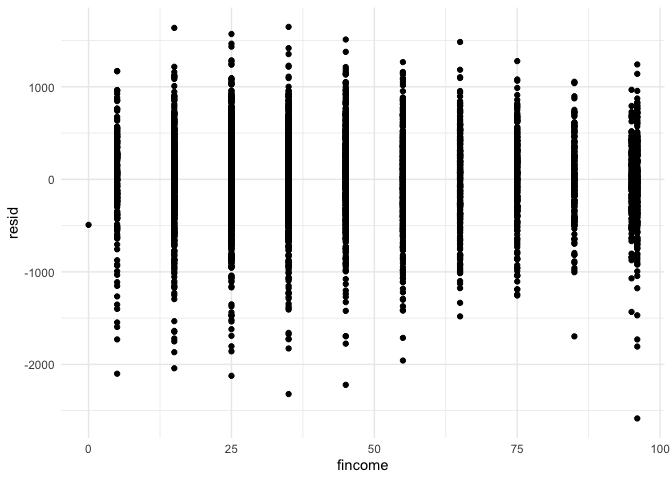
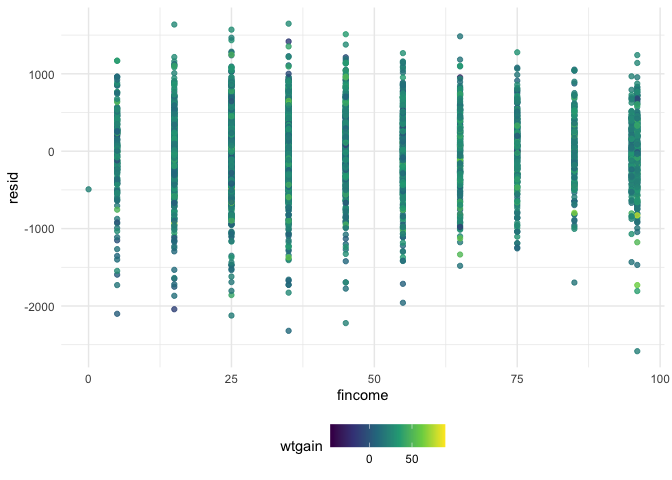
added cross validation to problem 2

diff --git a/p8105_hw6_kdh2140.md b/p8105_hw6_kdh2140.md
@@ -8,6 +8,7 @@ Kristina Howell
 library(tidyverse)
 library(modelr)
 library(p8105.datasets)
+library(mgcv)
 
 theme_set(theme_minimal() + theme(legend.position = "bottom"))
 
@@ -58,6 +59,8 @@ homicide_df =
   select(city_state, resolved, victim_age, victim_race, victim_sex)
 ```
 
+#### Fitting the model for Baltimore
+
 ``` r
 # Create a dataframe with only Baltimore, MD
 baltimore_df = 
@@ -88,6 +91,8 @@ glm(resolved ~ victim_age + victim_race + victim_sex,
 | victim\_raceWhite | 2.320 |     1.648 |     3.268 |
 | victim\_sexMale   | 0.426 |     0.325 |     0.558 |
 
+#### Mapping the model over the entire dataset
+
 ``` r
 models_results_df = 
   homicide_df %>% 
@@ -108,6 +113,8 @@ models_results_df =
   select(city_state, term, OR, starts_with("CI"))
 ```
 
+#### Visualization
+
 ``` r
 models_results_df %>% 
   filter(term == "victim_sexMale") %>% 
@@ -122,7 +129,7 @@ models_results_df %>%
 
 ## Problem 2
 
-Import and clean data
+#### Import and Tidy Data
 
 ``` r
 bwt_df = 
@@ -167,12 +174,48 @@ The model is as follows:
 
   - **Model 3:** birthweight \~ wtgain + fincome
 
-### Fit a linear model
+#### Fit linear models
 
 ``` r
-fit = lm(bwt ~ wtgain + fincome, data = bwt_df)
+fit1 = lm(bwt ~ blength + gaweeks, data = bwt_df)
 
-fit %>% 
+fit2 = lm(bwt ~ blength + bhead + babysex + 
+                blength*bhead + blength*babysex + bhead*babysex +
+                blength*bhead*babysex,
+              data = bwt_df)
+
+fit3 = lm(bwt ~ wtgain + fincome, data = bwt_df)
+
+fit1 %>% 
+broom::tidy()
+```
+
+    ## # A tibble: 3 x 5
+    ##   term        estimate std.error statistic  p.value
+    ##   <chr>          <dbl>     <dbl>     <dbl>    <dbl>
+    ## 1 (Intercept)  -4348.      98.0      -44.4 0.      
+    ## 2 blength        129.       1.99      64.6 0.      
+    ## 3 gaweeks         27.0      1.72      15.7 2.36e-54
+
+``` r
+fit2 %>% 
+broom::tidy()
+```
+
+    ## # A tibble: 8 x 5
+    ##   term                      estimate std.error statistic    p.value
+    ##   <chr>                        <dbl>     <dbl>     <dbl>      <dbl>
+    ## 1 (Intercept)                -802.    1102.       -0.728 0.467     
+    ## 2 blength                     -21.6     23.4      -0.926 0.354     
+    ## 3 bhead                       -16.6     34.1      -0.487 0.626     
+    ## 4 babysexMale               -6375.    1678.       -3.80  0.000147  
+    ## 5 blength:bhead                 3.32     0.713     4.67  0.00000317
+    ## 6 blength:babysexMale         124.      35.1       3.52  0.000429  
+    ## 7 bhead:babysexMale           198.      51.1       3.88  0.000105  
+    ## 8 blength:bhead:babysexMale    -3.88     1.06     -3.67  0.000245
+
+``` r
+fit3 %>% 
 broom::tidy()
 ```
 
@@ -183,11 +226,11 @@ broom::tidy()
     ## 2 wtgain         11.7      0.679      17.2 2.84e-64
     ## 3 fincome         3.13     0.286      10.9 1.96e-27
 
-### Check residual plot
+#### Check residual plots
 
 ``` r
-modelr::add_residuals(bwt_df, fit) %>% 
-  ggplot(aes(x = wtgain, y = resid)) +
+modelr::add_residuals(bwt_df, fit3) %>% 
+  ggplot(aes(x = wtgain, y = resid, color = fincome)) +
   geom_point()  
 ```
 
@@ -195,9 +238,9 @@ modelr::add_residuals(bwt_df, fit) %>%
 
 ``` r
 bwt_df %>% 
-  modelr::add_residuals(fit) %>% 
-  ggplot(aes(x = fincome, y = resid)) + 
-  geom_point() 
+  modelr::add_residuals(fit3) %>% 
+  ggplot(aes(x = fincome, y = resid, color = wtgain)) + 
+  geom_point(alpha = 0.8) 
 ```
 
 ![](p8105_hw6_kdh2140_files/figure-gfm/unnamed-chunk-6-2.png)<!-- -->
@@ -205,16 +248,93 @@ bwt_df %>%
 With both predictors, residuals appear randomly scattered around the 0
 line.
 
+#### Cross validation
+
+``` r
+cv_df = 
+  crossv_mc(bwt_df, 100) %>% 
+  
+  mutate(
+    train = map(train, as_tibble), 
+    test = map(test, as_tibble)) %>% 
+  
+  mutate(
+      fit1 = 
+        map(.x = train, ~lm(bwt ~ blength + gaweeks, data = .x)),
+      
+      fit2 = 
+        map(.x = train, ~lm(bwt ~ blength + bhead + babysex + 
+                            blength*bhead + blength*babysex + bhead*babysex +
+                            blength*bhead*babysex, 
+                          data = .x)),
+      
+      fit3 = 
+        map(.x = train, ~lm(bwt ~ wtgain + fincome, data = .x))) %>% 
+  
+  mutate(
+      rmse_fit1 = map2_dbl(.x = fit1, .y = test, 
+                             ~rmse(model = .x, data = .y)),
+      rmse_fit2 = map2_dbl(.x = fit2, .y = test, 
+                             ~rmse(model = .x, data = .y)),
+      rmse_fit3 = map2_dbl(.x = fit3, .y = test, 
+                             ~rmse(model = .x, data = .y)))
+```
+
+#### Analysis of results
+
+``` r
+cv_df %>% 
+  select(starts_with("rmse")) %>% 
+  pivot_longer(
+    everything(),
+    names_to = "model",
+    values_to = "rmse", 
+    names_prefix = "rmse_"
+  ) %>% 
+  ggplot(aes(x = model, y = rmse)) + 
+  geom_violin()
+```
+
+![](p8105_hw6_kdh2140_files/figure-gfm/unnamed-chunk-8-1.png)<!-- -->
+
+#### Calculate average RMSE
+
+``` r
+cv_df %>% 
+  select(starts_with("rmse")) %>% 
+  pivot_longer(
+    everything(),
+    names_to = "model",
+    values_to = "rmse", 
+    names_prefix = "rmse_"
+  ) %>% 
+  group_by(model) %>% 
+  summarize(avg_rmse = mean(rmse))
+```
+
+    ## `summarise()` ungrouping output (override with `.groups` argument)
+
+    ## # A tibble: 3 x 2
+    ##   model avg_rmse
+    ##   <chr>    <dbl>
+    ## 1 fit1      332.
+    ## 2 fit2      289.
+    ## 3 fit3      491.
+
+#### Extra code
+
 ``` r
 bwt_df %>% 
 ggplot(aes(x = wtgain, y = bwt)) +
   geom_point(alpha = 0.3) +
-  geom_smooth(method = "lm")
+  geom_smooth(method = "lm", se = F,
+              aes(group = fincome,                                  
+              color = fincome))
 ```
 
     ## `geom_smooth()` using formula 'y ~ x'
 
-![](p8105_hw6_kdh2140_files/figure-gfm/unnamed-chunk-7-1.png)<!-- -->
+![](p8105_hw6_kdh2140_files/figure-gfm/unnamed-chunk-10-1.png)<!-- -->
 
 ``` r
 bwt_df %>% 
@@ -225,16 +345,40 @@ ggplot(aes(x = fincome, y = bwt)) +
 
     ## `geom_smooth()` using formula 'y ~ x'
 
-![](p8105_hw6_kdh2140_files/figure-gfm/unnamed-chunk-7-2.png)<!-- -->
-
-Don’t seem related…
+![](p8105_hw6_kdh2140_files/figure-gfm/unnamed-chunk-10-2.png)<!-- -->
 
 ``` r
 bwt_df %>% 
-  add_predictions(linear_mod) %>% 
-  ggplot(aes(x = x, y = y)) + 
+  add_predictions(fit) %>% 
+  ggplot(aes(x = wtgain, y = bwt)) + 
   geom_point() +
   geom_line(aes(y = pred), color = "blue")
 ```
 
 ### Problem 3
+
+Import the data
+
+``` r
+weather_df = 
+  rnoaa::meteo_pull_monitors(
+    c("USW00094728"),
+    var = c("PRCP", "TMIN", "TMAX"), 
+    date_min = "2017-01-01",
+    date_max = "2017-12-31") %>%
+  mutate(
+    name = recode(id, USW00094728 = "CentralPark_NY"),
+    tmin = tmin / 10,
+    tmax = tmax / 10) %>%
+  select(name, id, everything())
+```
+
+    ## Registered S3 method overwritten by 'hoardr':
+    ##   method           from
+    ##   print.cache_info httr
+
+    ## using cached file: /Users/kristinahowell/Library/Caches/R/noaa_ghcnd/USW00094728.dly
+
+    ## date created (size, mb): 2020-10-02 11:43:00 (7.52)
+
+    ## file min/max dates: 1869-01-01 / 2020-09-30
